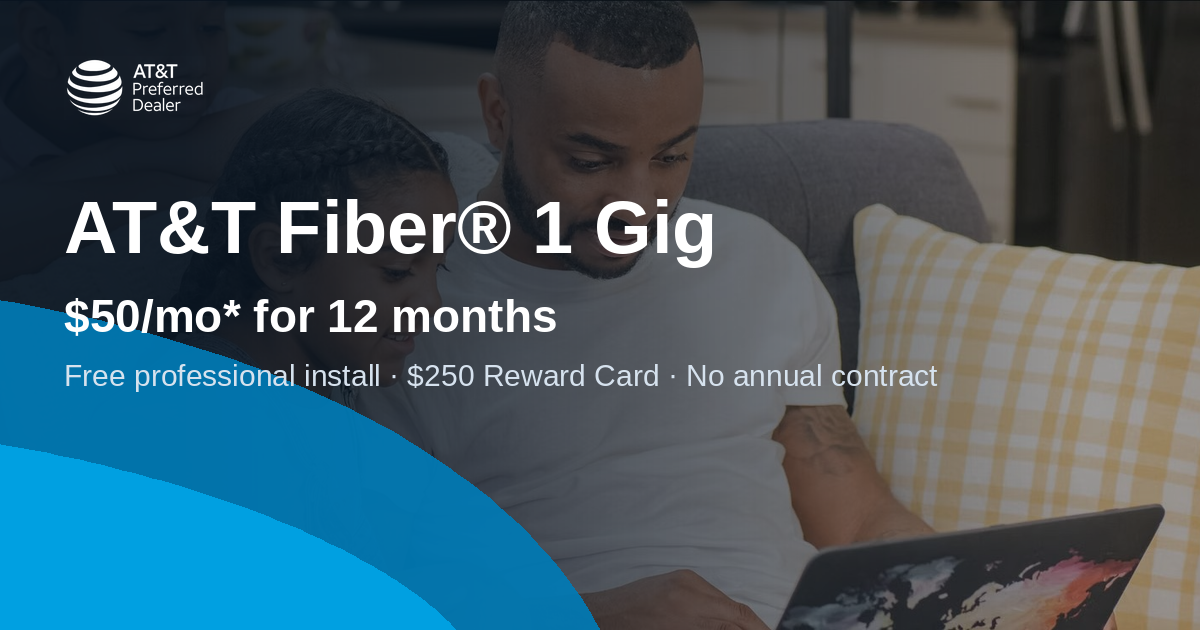
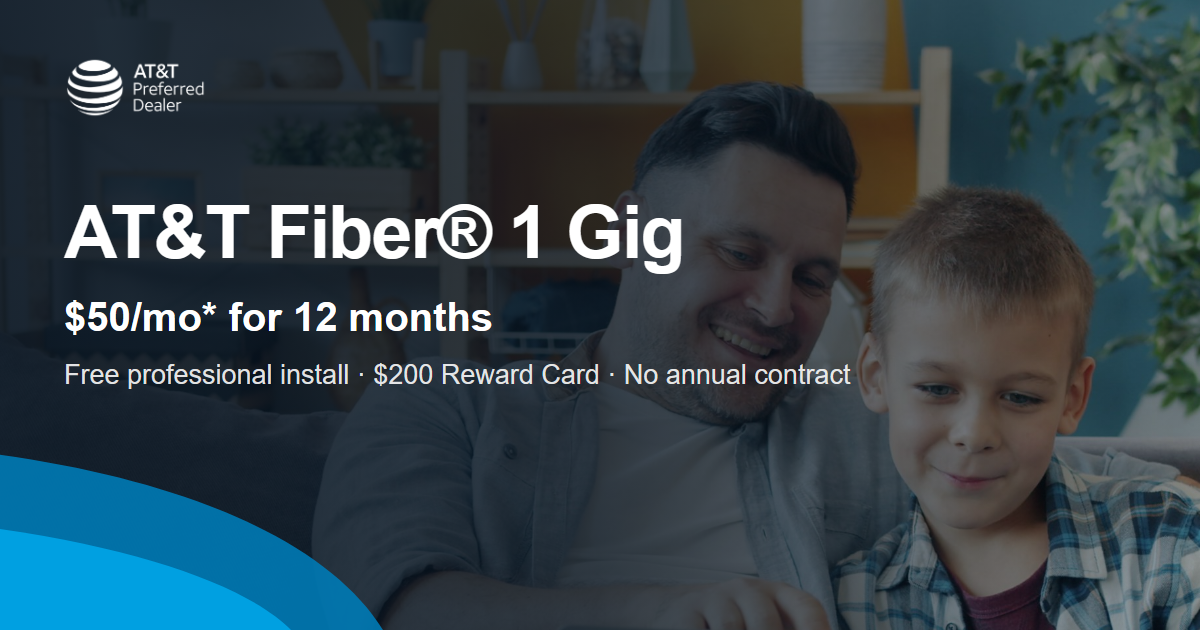
Reward card is $200, not $250; regenerate OG cards from the new hero photos
Adds scripts/og-images.mjs so the share images can be rebuilt whenever a
hero photo or offer changes.

Claude-Session: https://claude.ai/code/session_01MBG8sqBXTk97nwx5kzWPFh

diff --git a/src/app/page.tsx b/src/app/page.tsx
@@ -112,7 +112,7 @@ export default function Home() {
               />
               <div className="text-center md:text-left">
                 <h2 id="reward-title" className="att-h2 mb-3">
-                  Get a $250 AT&amp;T Visa<sup className="att-reg">®</sup> Reward Card
+                  Get a $200 AT&amp;T Visa<sup className="att-reg">®</sup> Reward Card
                 </h2>
                 <p className="att-lead mb-4">
                   with purchase of AT&amp;T Fiber. Redemption required.
@@ -336,10 +336,10 @@ export default function Home() {
       )}
 
       {showRewardModal && (
-        <Modal onClose={() => setShowRewardModal(null)} title="$250 AT&T Visa® Reward Card" large>
+        <Modal onClose={() => setShowRewardModal(null)} title="$200 AT&T Visa® Reward Card" large>
           <div className="space-y-4 text-sm text-att-gray-600">
-            <p className="font-bold text-att-ink">$250 REWARD CARD OFFER: Limited time offer, subject to change.</p>
-            <p>$250 AT&amp;T Visa® Reward Card for purchase of any AT&amp;T Fiber speeds. For new residential AT&amp;T Fiber customers who order through this site. Redemption req&apos;d. Employees and residents of select multi-dwelling units not eligible.</p>
+            <p className="font-bold text-att-ink">$200 REWARD CARD OFFER: Limited time offer, subject to change.</p>
+            <p>$200 AT&amp;T Visa® Reward Card for purchase of any AT&amp;T Fiber speeds. For new residential AT&amp;T Fiber customers who order through this site. Redemption req&apos;d. Employees and residents of select multi-dwelling units not eligible.</p>
             <p className="att-fine text-att-gray-500">Card issued by The Bancorp Bank N.A., Member FDIC, pursuant to a license from Visa U.S.A. Inc.</p>
           </div>
         </Modal>

diff --git a/src/lib/site-config.ts b/src/lib/site-config.ts
@@ -201,8 +201,8 @@ export const faqs: Faq[] = [
     a: "Yes. Existing wireless and landline numbers can usually be ported to AT&T. Most transfers finish within 2 to 24 hours, and your current service keeps working until the port completes.",
   },
   {
-    q: "How does the $250 AT&T Visa® Reward Card work?",
-    a: "New residential AT&T Fiber customers who order through this site qualify for a $250 AT&T Visa® Reward Card. Redemption is required within 75 days of the redemption notice. The card is issued by The Bancorp Bank N.A., Member FDIC, pursuant to a license from Visa U.S.A. Inc. Limited time offer, subject to change.",
+    q: "How does the $200 AT&T Visa® Reward Card work?",
+    a: "New residential AT&T Fiber customers who order through this site qualify for a $200 AT&T Visa® Reward Card. Redemption is required within 75 days of the redemption notice. The card is issued by The Bancorp Bank N.A., Member FDIC, pursuant to a license from Visa U.S.A. Inc. Limited time offer, subject to change.",
   },
   {
     q: "I'm moving. Can I take the service with me?",

diff --git a/src/app/att-fiber/[slug]/page.tsx b/src/app/att-fiber/[slug]/page.tsx
@@ -27,7 +27,7 @@ export async function generateMetadata({
 
   return pageMetadata({
     title: `AT&T Fiber in ${city.city}, ${city.state} — Plans & Availability`,
-    description: `Check AT&T Fiber availability at your ${city.city} address. Plans from $35/mo with speeds up to 5 GIG, unlimited data, free professional installation and a $250 Reward Card. Order 24/7 from an AT&T Preferred Dealer.`,
+    description: `Check AT&T Fiber availability at your ${city.city} address. Plans from $35/mo with speeds up to 5 GIG, unlimited data, free professional installation and a $200 Reward Card. Order 24/7 from an AT&T Preferred Dealer.`,
     path: `/att-fiber/${city.slug}`,
     keywords: [
       `AT&T Fiber ${city.city}`,

diff --git a/src/app/faq/layout.tsx b/src/app/faq/layout.tsx
@@ -4,7 +4,7 @@ import { pageMetadata, faqSchema } from "@/lib/seo";
 export const metadata: Metadata = pageMetadata({
   title: "AT&T Fiber FAQ — Speeds, Equipment & Installation",
   description:
-    "Answers to the most common AT&T Fiber questions: availability, equipment, data caps, AutoPay discounts, installation times, and the $250 Reward Card offer.",
+    "Answers to the most common AT&T Fiber questions: availability, equipment, data caps, AutoPay discounts, installation times, and the $200 Reward Card offer.",
   path: "/faq",
   image: "/images/og-image.png",
   locale: "en_US",

diff --git a/src/lib/seo.ts b/src/lib/seo.ts
@@ -17,7 +17,7 @@ export const siteUrl = (
 export const siteName = "AT&T Preferred Dealer";
 
 export const defaultDescription =
-  "Order AT&T Fiber internet from an AT&T Preferred Dealer. Plans from $35/mo with speeds up to 5 GIG, free professional installation, and a $250 AT&T Visa Reward Card. Check availability at your address.";
+  "Order AT&T Fiber internet from an AT&T Preferred Dealer. Plans from $35/mo with speeds up to 5 GIG, free professional installation, and a $200 AT&T Visa Reward Card. Check availability at your address.";
 
 type PageMetaInput = {
   title: string;
